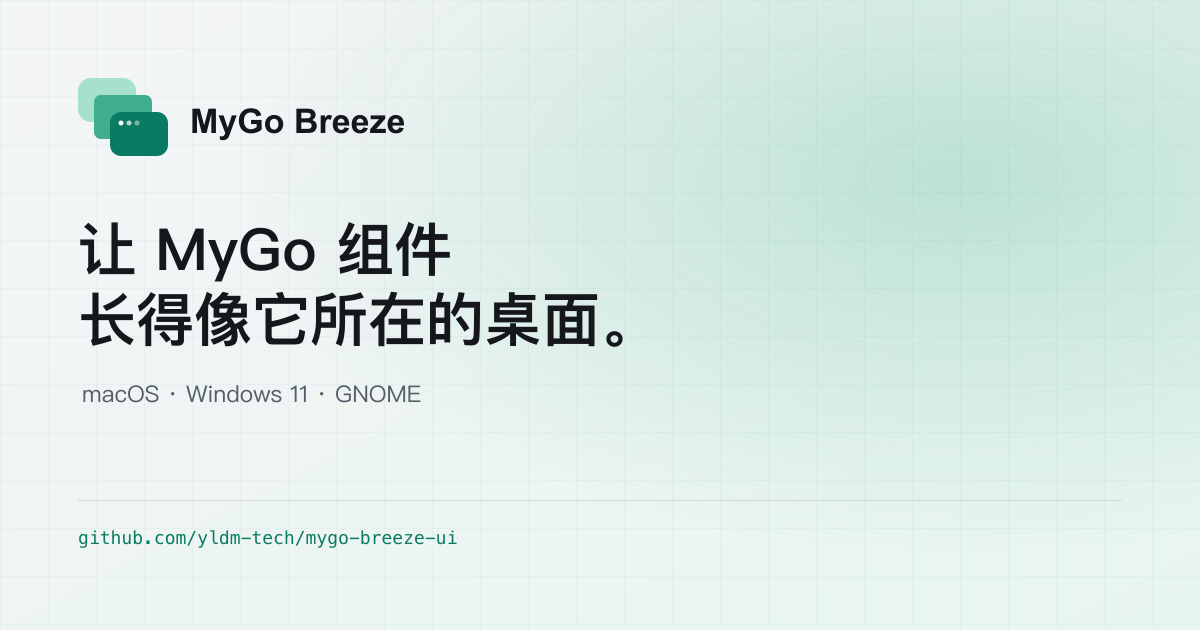
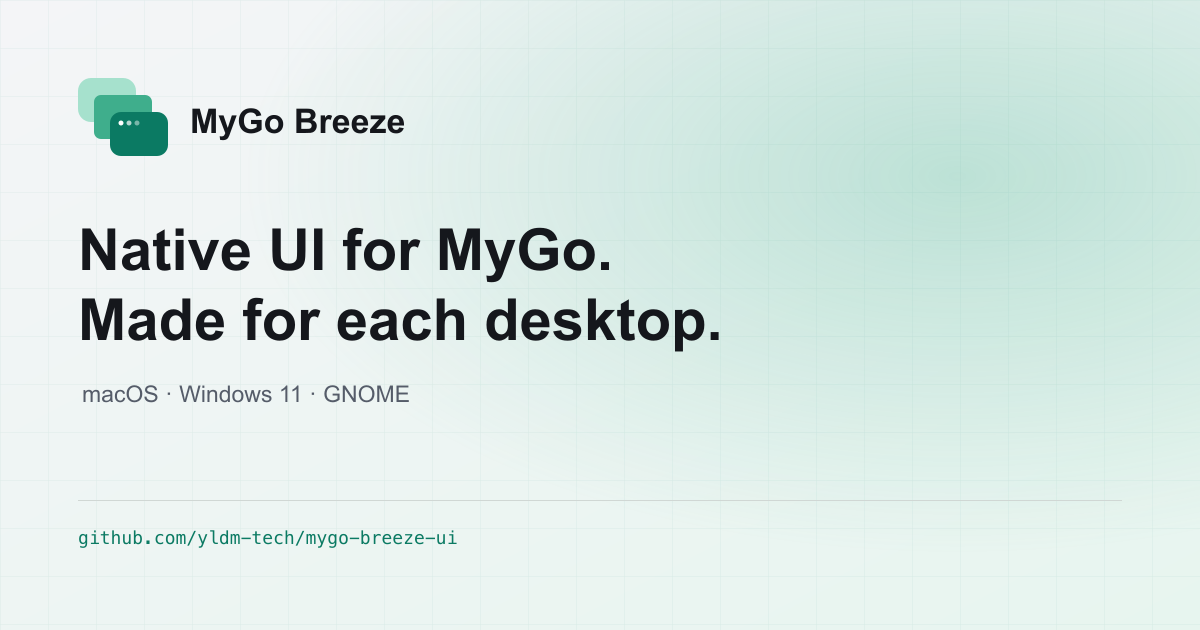
fix(website): use English social metadata

Changed region(s): [[0.0617, 0.3317, 0.6167, 0.573], [0.0617, 0.6032, 0.37, 0.6635]]

diff --git a/website/src/routes/home.tsx b/website/src/routes/home.tsx
@@ -146,7 +146,7 @@ function HomePage() {
   const copyCommand = async () => { await navigator.clipboard?.writeText(command); setCopied(true); window.setTimeout(() => setCopied(false), 1400); };
   const stat = t.stat.replace("{drawn}", locale === "zh" ? "86" : "86").replace("{n}", "94");
   return <div className="site-shell">
-    <Seo title={locale === "zh" ? "MyGo Breeze — MyGo 原生 UI 组件" : "MyGo Breeze — Native UI widgets for MyGo"} description={locale === "zh" ? "MyGo Breeze 按 macOS、Windows 11 和 GNOME 的原生样式绘制 MyGo 组件。" : "MyGo Breeze draws MyGo widgets to match macOS, Windows 11 and GNOME."} path="/" locale={locale} />
+    <Seo title={locale === "zh" ? "MyGo Breeze — MyGo 原生 UI 组件" : "MyGo Breeze — Native UI widgets for MyGo"} description={locale === "zh" ? "MyGo Breeze 按 macOS、Windows 11 和 GNOME 的原生样式绘制 MyGo 组件。" : "MyGo Breeze draws MyGo widgets to match macOS, Windows 11 and GNOME."} socialTitle="MyGo Breeze — Native UI for MyGo" socialDescription="Native UI widgets for MyGo, drawn to match macOS, Windows 11 and GNOME." path="/" locale={locale} />
     <main>
       <section className="hero" id="top"><div className="hero-grid"><span className="gust" /><span className="gust" /><span className="gust" /><span className="gust" /></div><motion.div className="hero-copy rise"><h1><span>{t.h1a}</span> <span>{t.h1b}</span></h1></motion.div><div className="hero-content"><motion.p className="hero-intro rise" transition={{ delay: .08 }}>{t.intro}</motion.p><motion.div className="hero-buttons rise" transition={{ delay: .16 }}><a className="btn-primary" href="#install">{t.quick}<ArrowRight size={16} /></a><a className="btn-secondary" href="https://yldm-tech.github.io/mygo-breeze-ui/storybook/" target="_blank" rel="noreferrer">{t.storybook}</a></motion.div><motion.div className="command-chip rise" transition={{ delay: .24 }}><span>$</span><code>{command}</code><button className="command-copy" type="button" onClick={copyCommand} aria-label={command}>{copied ? <Check size={16} color="#0b7a63" /> : <Clipboard size={16} />}</button></motion.div><motion.p className="hero-statline rise" transition={{ delay: .32 }}>{stat}</motion.p></div><motion.div className="hero-demo rise" transition={{ delay: .2 }}><HeroDemo t={t} /></motion.div></section>
       <div className="ticker-wrap" aria-hidden="true"><div className="ticker-row">{(entries.length ? entries : [{ name: "Accordion" }, { name: "Button" }, { name: "Calendar" }, { name: "Checkbox" }, { name: "DatePicker" }, { name: "Dialog" }, { name: "HeaderBar" }, { name: "ProgressBar" }, { name: "Slider" }, { name: "Switch" }, { name: "AccordionItem" }, { name: "AlertDialog" }, { name: "Autocomplete" }, { name: "ComboBox" }, { name: "Menu" }, { name: "Popover" }, { name: "RadioButton" }, { name: "SearchField" }, { name: "TabView" }, { name: "Tooltip" }]).slice(0, 20).map((item, index) => <span className="ticker-pill" key={`a-${item.name}-${index}`}>{item.name}</span>)}</div><div className="ticker-row ticker-reverse">{(entries.length ? entries : [{ name: "Accordion" }, { name: "Button" }, { name: "Calendar" }, { name: "Checkbox" }, { name: "DatePicker" }, { name: "Dialog" }, { name: "HeaderBar" }, { name: "ProgressBar" }, { name: "Slider" }, { name: "Switch" }, { name: "AccordionItem" }, { name: "AlertDialog" }, { name: "Autocomplete" }, { name: "ComboBox" }, { name: "Menu" }, { name: "Popover" }, { name: "RadioButton" }, { name: "SearchField" }, { name: "TabView" }, { name: "Tooltip" }]).slice(20, 40).map((item, index) => <span className="ticker-pill" key={`b-${item.name}-${index}`}>{item.name}</span>)}</div></div>

diff --git a/website/src/components/Seo.tsx b/website/src/components/Seo.tsx
@@ -6,6 +6,8 @@ const imageUrl = `${siteUrl}/og-image.png`;
 type SeoProps = {
   title: string;
   description: string;
+  socialTitle?: string;
+  socialDescription?: string;
   path: string;
   locale: "zh" | "en";
 };
@@ -20,17 +22,17 @@ function setMeta(selector: string, attribute: "name" | "property", key: string, 
   element.content = content;
 }
 
-export function Seo({ title, description, path, locale }: SeoProps) {
+export function Seo({ title, description, socialTitle = title, socialDescription = description, path, locale }: SeoProps) {
   useEffect(() => {
     const url = `${siteUrl}${path === "/" ? "/" : path}`;
     document.title = title;
     document.documentElement.lang = locale === "zh" ? "zh-CN" : "en";
     setMeta('meta[name="description"]', "name", "description", description);
-    setMeta('meta[property="og:title"]', "property", "og:title", title);
-    setMeta('meta[property="og:description"]', "property", "og:description", description);
+    setMeta('meta[property="og:title"]', "property", "og:title", socialTitle);
+    setMeta('meta[property="og:description"]', "property", "og:description", socialDescription);
     setMeta('meta[property="og:url"]', "property", "og:url", url);
-    setMeta('meta[name="twitter:title"]', "name", "twitter:title", title);
-    setMeta('meta[name="twitter:description"]', "name", "twitter:description", description);
+    setMeta('meta[name="twitter:title"]', "name", "twitter:title", socialTitle);
+    setMeta('meta[name="twitter:description"]', "name", "twitter:description", socialDescription);
     let canonical = document.head.querySelector<HTMLLinkElement>('link[rel="canonical"]');
     if (!canonical) {
       canonical = document.createElement("link");
@@ -54,6 +56,6 @@ export function Seo({ title, description, path, locale }: SeoProps) {
       isPartOf: { "@type": "WebSite", name: "MyGo Breeze", url: `${siteUrl}/` },
       image: imageUrl,
     });
-  }, [description, locale, path, title]);
+  }, [description, locale, path, socialDescription, socialTitle, title]);
   return null;
 }

diff --git a/website/index.html b/website/index.html
@@ -12,12 +12,13 @@
       content="MyGo Breeze 按 macOS、Windows 11 和 GNOME 的原生样式绘制 MyGo 组件。"
     />
     <link rel="canonical" href="https://yldm-tech.github.io/mygo-breeze-ui/" />
-    <meta property="og:locale" content="zh_CN" />
+    <meta property="og:locale" content="en_US" />
+    <meta property="og:locale:alternate" content="zh_CN" />
     <meta property="og:site_name" content="MyGo Breeze" />
-    <meta property="og:title" content="MyGo Breeze — 让 MyGo 组件长得像它所在的桌面" />
+    <meta property="og:title" content="MyGo Breeze — Native UI for MyGo" />
     <meta
       property="og:description"
-      content="让 MyGo 组件长得像它所在的桌面。"
+      content="Native UI widgets for MyGo, drawn to match macOS, Windows 11 and GNOME."
     />
     <meta property="og:type" content="website" />
     <meta property="og:url" content="https://yldm-tech.github.io/mygo-breeze-ui/" />
@@ -27,8 +28,8 @@
     <meta property="og:image:width" content="1200" />
     <meta property="og:image:height" content="630" />
     <meta name="twitter:card" content="summary_large_image" />
-    <meta name="twitter:title" content="MyGo Breeze — MyGo native UI widgets" />
-    <meta name="twitter:description" content="让 MyGo 组件长得像它所在的桌面。" />
+    <meta name="twitter:title" content="MyGo Breeze — Native UI for MyGo" />
+    <meta name="twitter:description" content="Native UI widgets for MyGo, drawn to match macOS, Windows 11 and GNOME." />
     <meta name="twitter:image" content="https://yldm-tech.github.io/mygo-breeze-ui/og-image.png" />
     <title>MyGo Breeze — MyGo 原生 UI 组件</title>
     <link rel="icon" href="/mygo-breeze-ui/favicon.svg" />

diff --git a/website/src/routes/cli-mcp.tsx b/website/src/routes/cli-mcp.tsx
@@ -19,7 +19,7 @@ function CliMcpPage() {
   const zh = locale === "zh";
   return (
     <main className="pb-[120px] pt-12 max-[680px]:pb-20 max-[680px]:pt-10">
-      <Seo title={zh ? "MyGo Breeze CLI 与 MCP" : "MyGo Breeze CLI and MCP"} description={zh ? "使用 MyGo Breeze CLI 和只读 MCP 服务搜索组件、列出平台并生成 Go 代码。" : "Use the MyGo Breeze CLI and read-only MCP server to search components, list platforms and generate Go code."} path="/cli-mcp" locale={locale} />
+      <Seo title={zh ? "MyGo Breeze CLI 与 MCP" : "MyGo Breeze CLI and MCP"} description={zh ? "使用 MyGo Breeze CLI 和只读 MCP 服务搜索组件、列出平台并生成 Go 代码。" : "Use the MyGo Breeze CLI and read-only MCP server to search components, list platforms and generate Go code."} socialTitle="MyGo Breeze CLI and MCP" socialDescription="Search components, list platforms and generate Go code with the MyGo Breeze CLI and MCP server." path="/cli-mcp" locale={locale} />
       <div className="mx-auto w-[calc(100%-48px)] max-w-[1160px] max-[680px]:w-[calc(100%-34px)]">
         <Link className="mb-12 inline-flex items-center gap-1.5 font-mono text-[11px] text-muted hover:text-ink" to="/">
           <ArrowLeft size={15} /> {zh ? "返回首页" : "Back home"}

diff --git a/website/src/routes/api.tsx b/website/src/routes/api.tsx
@@ -21,7 +21,7 @@ function ApiPage() {
   const { data: catalog } = useQuery({ queryKey: ["catalog"], queryFn: getCatalog });
   return (
     <main className="px-0 pb-[120px] pt-12 max-[680px]:pb-20 max-[680px]:pt-12">
-      <Seo title={locale === "zh" ? "MyGo Breeze API 文档" : "MyGo Breeze API reference"} description={locale === "zh" ? "查询 MyGo Breeze 的版本化组件和平台目录。" : "Query the versioned MyGo Breeze component and platform catalog."} path="/api" locale={locale} />
+      <Seo title={locale === "zh" ? "MyGo Breeze API 文档" : "MyGo Breeze API reference"} description={locale === "zh" ? "查询 MyGo Breeze 的版本化组件和平台目录。" : "Query the versioned MyGo Breeze component and platform catalog."} socialTitle="MyGo Breeze API reference" socialDescription="Query the versioned MyGo Breeze component and platform catalog." path="/api" locale={locale} />
       <div className="mx-auto w-[calc(100%-48px)] max-w-[1160px] max-[680px]:w-[calc(100%-34px)]">
         <motion.div
           className="mb-14 max-w-[760px]"
